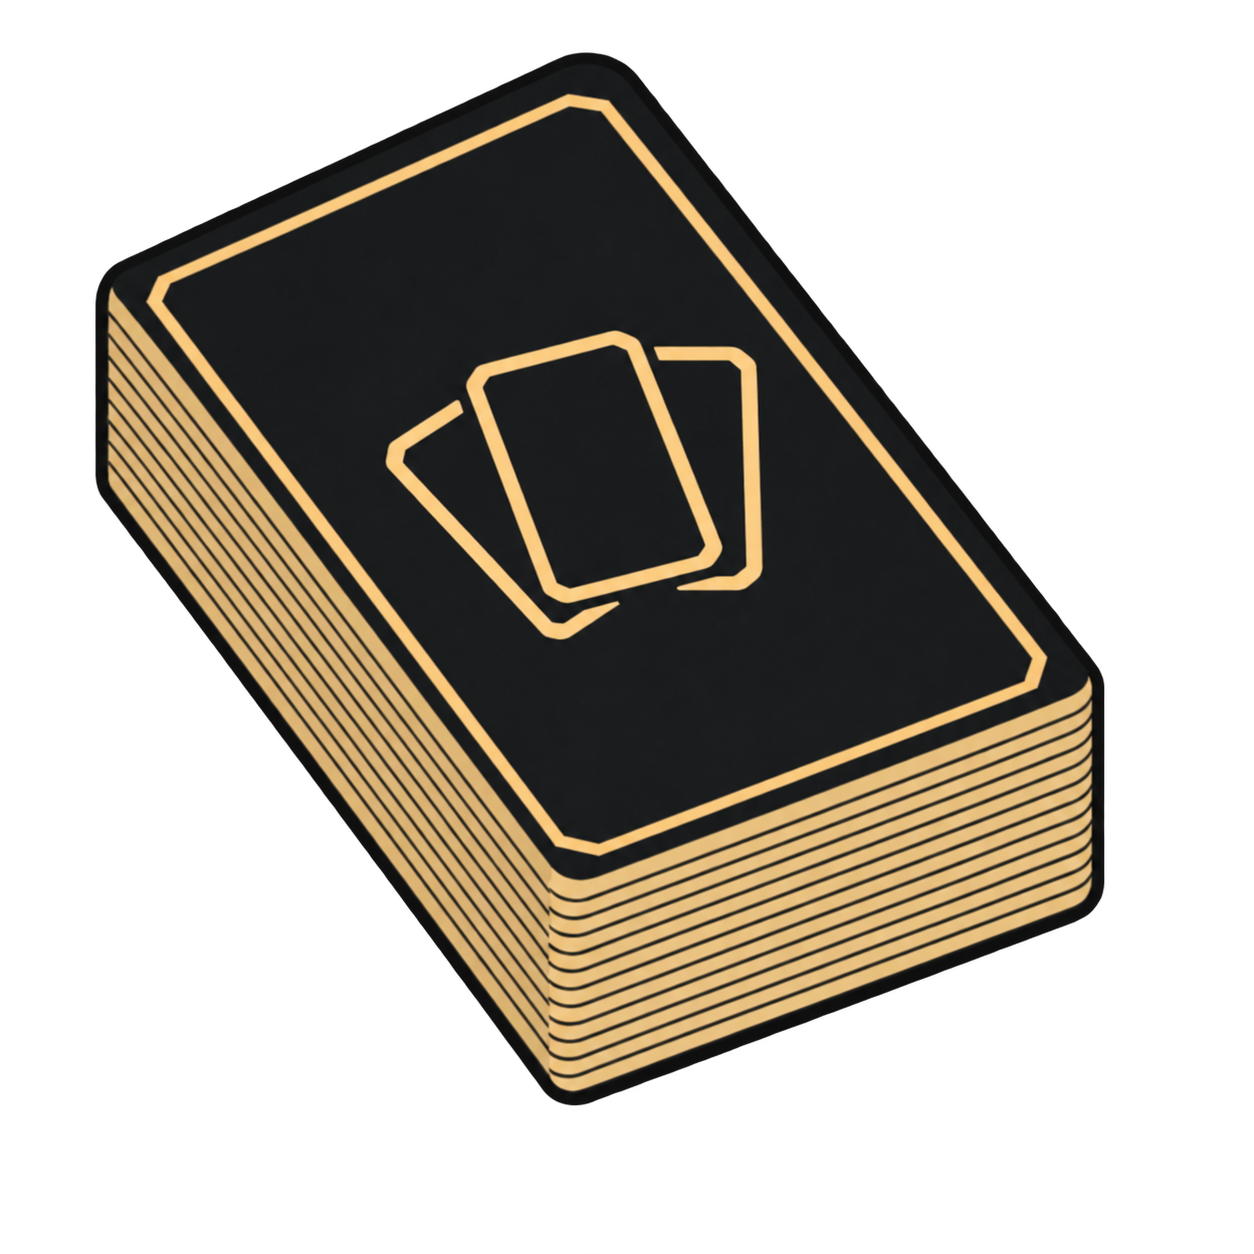
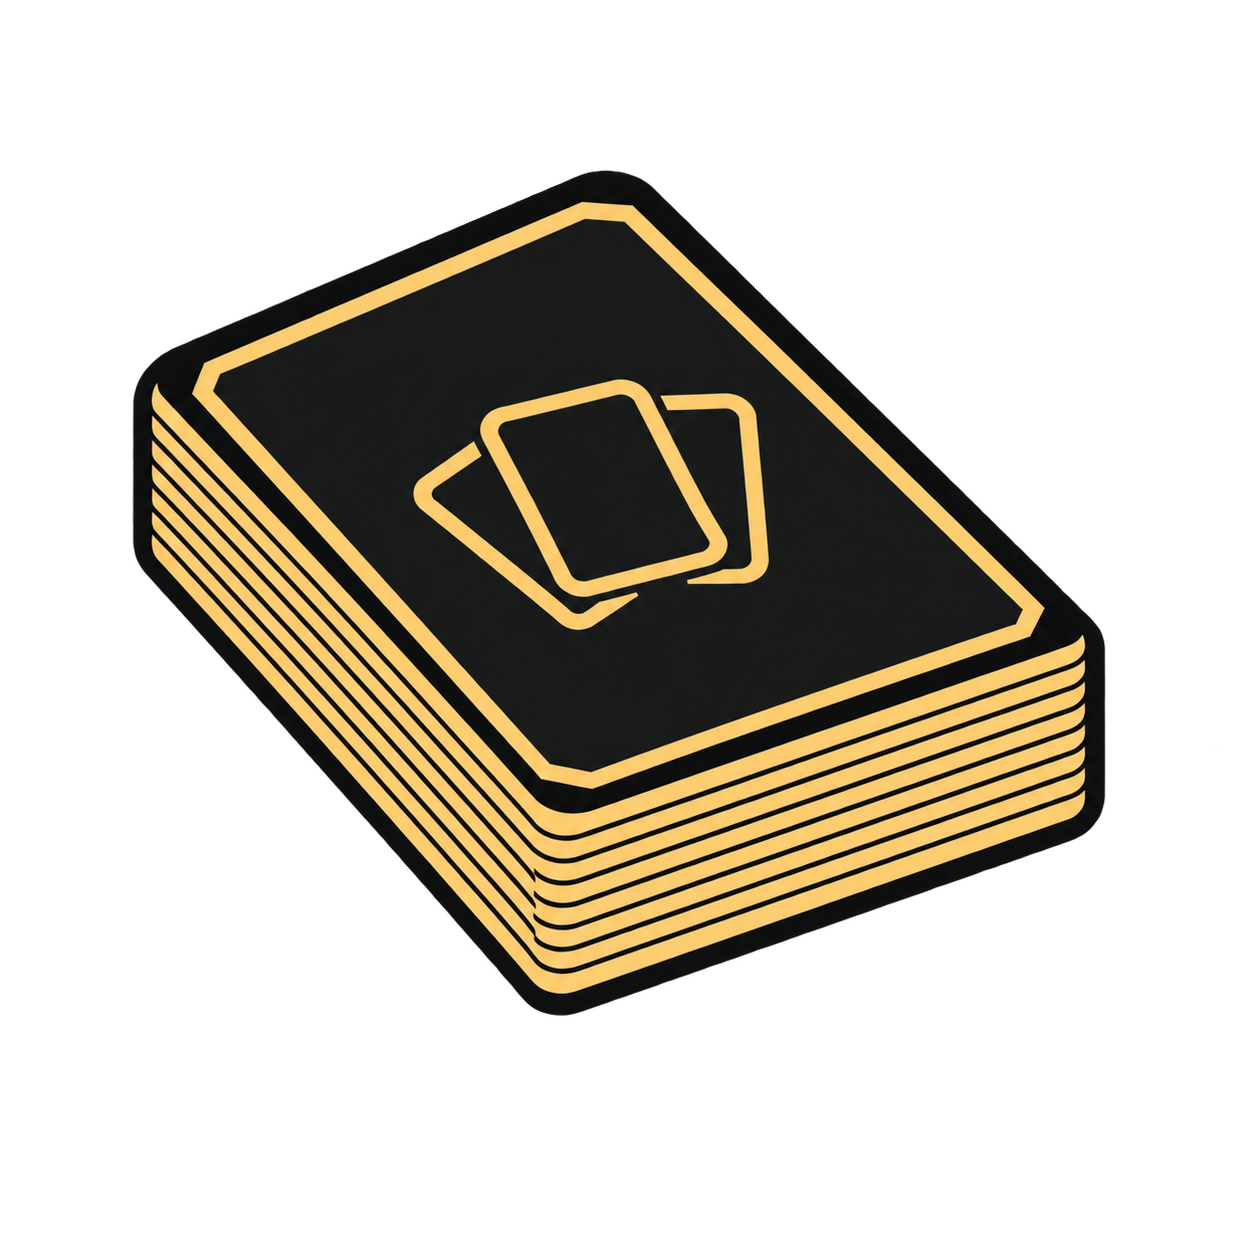
Le cadrage des tas se calcule au lieu de se régler
Keko a mis ces deux images à jour, et leurs marges ont encore changé : le sujet
est passé de quasi carré à nettement plus plat. Le facteur d'agrandissement
avait déjà été écrit à la main deux fois, et il a été faux les deux fois dès
l'image suivante — 30 % de vide pour Deck.png, 19 pour ses remplaçants, 22 en
largeur mais 33 en hauteur pour leur mise à jour.

Une compensation calée à la main sur un fichier est fausse dès que le fichier
change, et rien ne le signale puisque l'image s'affiche quand même.

`Tas3D` mesure donc le dessin dans son cadre — le module des créatures rend ce
qu'il a coûté une seconde fois — et en déduit l'agrandissement et les quatre
marges. Vérifié hors navigateur sur les deux fichiers : 124,8 % et 117,7 % de
largeur, pour un paquet qui occupe 97,0 % de sa colonne dans les deux cas.

Deux pièges évités, tous deux déjà payés ailleurs : les % d'une marge se
rapportent à la largeur du bloc conteneur et jamais à sa hauteur, donc la marge
verticale passe par le rapport de l'image ; et la toile de mesure garde ce
rapport, sinon le dessin serait écrasé et les marges fausses sur l'axe écrasé.

Claude-Session: https://claude.ai/code/session_01KZ9nCsdAx7LsxofMKnUAi4

Changed region(s): [[0.0622, 0.0311, 0.9019, 0.9019]]

diff --git a/src/render/Tas3D.tsx b/src/render/Tas3D.tsx
@@ -21,17 +21,30 @@
  * une forme qui penche ne se juge pas au milieu de l'écran mais contre le bord
  * auquel elle est collée.
  *
- * **L'IMAGE EST AGRANDIE POUR COMPENSER SES MARGES**, et le facteur se
- * remesure à chaque dessin : `Deck.png` laissait 30 % de vide, ces deux-ci n'en
- * laissent que 19 — garder l'agrandissement d'avant les aurait sortis 17 % trop
- * gros. *Une compensation est calée sur UN fichier, pas sur l'idée de fichier.*
+ * **LE CADRAGE SE CALCULE, IL NE SE RÈGLE PLUS.** Un PNG porte ses bords
+ * transparents là où le viewBox d'un SVG collait au dessin, donc le paquet
+ * paraît plus petit que sa place et il faut l'agrandir d'autant. Ce facteur a
+ * été écrit à la main deux fois, et **il a été faux les deux fois dès l'image
+ * suivante** : `Deck.png` laissait 30 % de vide, ses remplaçants 19, leur mise
+ * à jour 22 en largeur mais 33 en hauteur. *Une compensation calée à la main
+ * sur un fichier est fausse dès que le fichier change* — et rien ne le signale,
+ * puisque l'image s'affiche quand même.
+ *
+ * On mesure donc le dessin dans son cadre et on en déduit l'agrandissement et
+ * les quatre marges. Keko peut redessiner ces symboles comme il veut, y compris
+ * en changeant leurs proportions : ils occuperont toujours la même place.
  *
  * **Le chiffre est AU-DESSUS, et il est discret.** Il a été un gros nombre d'or
  * serti sur le dos dans le jeu 2D : il avait le poids d'une valeur de jeu alors
  * qu'on ne décide pas dessus. Keko : « plus discret, c'est pas une info
  * capitale ». Au-dessus et non sur le paquet, donc rien ne recouvre le dessin.
  */
+import { useState } from 'react'
 import { urlDuTas } from '../ui/art.ts'
+import { boiteDe, mesurerBoite } from './silhouette.ts'
+
+/** La part de la colonne que le paquet doit occuper, vide exclu. */
+const CIBLE = 0.97
 
 type Props = {
   nom: 'pioche' | 'defausse'
@@ -39,6 +52,12 @@ type Props = {
 }
 
 export function Tas3D({ nom, compte }: Props): React.JSX.Element {
+  const [, mesure] = useState(0)
+  const cle = `tas-${nom}`
+  const boite = boiteDe(cle)
+  const largeurDuSujet = Math.max(0.1, 1 - boite.gauche - boite.droite)
+  const facteur = CIBLE / largeurDuSujet
+
   return (
     <div className={`tas-3d ${nom}`}>
       <span className="tas-compte">{compte}</span>
@@ -47,7 +66,31 @@ export function Tas3D({ nom, compte }: Props): React.JSX.Element {
           Keko l'a demandé en les fournissant. Ce n'est plus « un seul dessin,
           deux poses » mais deux dessins dont un se retourne : le symbole
           appartient au tas, l'inclinaison appartient au coin. */}
-      <img className="tas-dessin" src={urlDuTas(nom)} alt="" aria-hidden="true" />
+      <img
+        className="tas-dessin"
+        src={urlDuTas(nom)}
+        alt=""
+        aria-hidden="true"
+        onLoad={(e) => {
+          // La mesure ne prévient qu'à la PREMIÈRE fois, `silhouette.ts` s'en
+          // porte garant : un signal qui repartirait à chaque rendu serait la
+          // boucle infinie déjà rencontrée sur les textures de cartes.
+          if (mesurerBoite(cle, e.currentTarget)) mesure((n) => n + 1)
+        }}
+        style={{
+          width: `${facteur * 100}%`,
+          // LES `%` D'UNE MARGE SE RAPPORTENT À LA LARGEUR du bloc conteneur,
+          // jamais à sa hauteur — le piège déjà payé sur la tête de mort. La
+          // largeur de l'image vaut `facteur × 100 %` de ce conteneur, donc une
+          // marge dans la même unité retranche bien une fraction de l'image ;
+          // en hauteur il faut passer par son rapport, qu'on ne suppose pas
+          // carré.
+          marginTop: `${(-boite.haut * facteur * 100) / boite.rapport}%`,
+          marginBottom: `${(-boite.bas * facteur * 100) / boite.rapport}%`,
+          marginLeft: `${-boite.gauche * facteur * 100}%`,
+          marginRight: `${-boite.droite * facteur * 100}%`,
+        }}
+      />
     </div>
   )
 }

diff --git a/src/render/silhouette.ts b/src/render/silhouette.ts
@@ -31,10 +31,12 @@ export type Boite = {
   bas: number
   gauche: number
   droite: number
+  /** Largeur / hauteur du CADRE. On ne suppose jamais qu'il est carré. */
+  rapport: number
 }
 
 /** Le repli : le sujet remplit son cadre. C'est le cas des silhouettes SVG. */
-export const CADRE_PLEIN: Boite = { haut: 0, bas: 0, gauche: 0, droite: 0 }
+export const CADRE_PLEIN: Boite = { haut: 0, bas: 0, gauche: 0, droite: 0, rapport: 1 }
 
 const BOITES = new Map<string, Boite>()
 
@@ -51,17 +53,26 @@ export function boiteDe(cle: string): Boite {
 export function mesurerBoite(cle: string, image: CanvasImageSource): boolean {
   if (BOITES.has(cle)) return false
 
-  const T = 96
+  // LA TOILE GARDE LE RAPPORT DE L'IMAGE : la rendre carrée écraserait le
+  // dessin, et les marges qu'on en tire seraient fausses sur l'axe écrasé.
+  const nat = image as { naturalWidth?: number; naturalHeight?: number; width?: number; height?: number }
+  const l = nat.naturalWidth ?? (typeof nat.width === 'number' ? nat.width : 0)
+  const h = nat.naturalHeight ?? (typeof nat.height === 'number' ? nat.height : 0)
+  const rapport = l > 0 && h > 0 ? l / h : 1
+
+  const COTE = 96
+  const T = COTE
+  const TH = Math.max(1, Math.round(COTE / rapport))
   const toile = document.createElement('canvas')
   toile.width = T
-  toile.height = T
+  toile.height = TH
   const ctx = toile.getContext('2d', { willReadFrequently: true })
   if (ctx === null) return false
-  ctx.drawImage(image, 0, 0, T, T)
+  ctx.drawImage(image, 0, 0, T, TH)
 
   let donnees: Uint8ClampedArray
   try {
-    donnees = ctx.getImageData(0, 0, T, T).data
+    donnees = ctx.getImageData(0, 0, T, TH).data
   } catch {
     // Une image d'une autre origine souille le canvas. Ça n'arrive pas ici —
     // tout vient de `public/` — mais une lecture qui jette ne doit pas
@@ -70,10 +81,10 @@ export function mesurerBoite(cle: string, image: CanvasImageSource): boolean {
   }
 
   let x0 = T
-  let y0 = T
+  let y0 = TH
   let x1 = -1
   let y1 = -1
-  for (let y = 0; y < T; y++) {
+  for (let y = 0; y < TH; y++) {
     for (let x = 0; x < T; x++) {
       // Le même seuil que la mesure hors ligne : sous 12, c'est la frange
       // d'antialiasing du dessin, pas le dessin.
@@ -90,10 +101,11 @@ export function mesurerBoite(cle: string, image: CanvasImageSource): boolean {
   if (x1 < 0) return false
 
   BOITES.set(cle, {
-    haut: y0 / T,
-    bas: (T - 1 - y1) / T,
+    haut: y0 / TH,
+    bas: (TH - 1 - y1) / TH,
     gauche: x0 / T,
     droite: (T - 1 - x1) / T,
+    rapport,
   })
   return true
 }

diff --git a/src/ui/styles.css b/src/ui/styles.css
@@ -3770,22 +3770,12 @@ body {
   transform: scaleX(-1);
 }
 
-/* L'IMAGE PORTE SES MARGES, LE SVG N'EN AVAIT PAS. Le viewBox collait au
-   dessin ; un PNG porte ses bords transparents, donc le paquet paraitrait plus
-   petit a place egale. On l'agrandit d'autant et on laisse deborder -- la
-   colonne ne sert qu'a l'aligner.
-
-   ET LE FACTEUR SE RECALCULE A CHAQUE DESSIN. `Deck.png` laissait 30 % de vide,
-   `Pioche.png` et `Défausse.png` n'en laissent que 19 : garder l'agrandissement
-   d'avant les aurait sortis 17 % trop gros. *Une compensation est calee sur UN
-   fichier, pas sur l'idee de fichier* -- elle se remesure quand il change.
-
-   Le vide n'est pas centre non plus (4 % en haut, 12 % en bas), d'ou des marges
-   verticales inegales. */
+/* LA TAILLE ET LES MARGES SONT CALCULEES PAR `Tas3D`, depuis le dessin lui-meme
+   : un PNG porte ses bords transparents, et leur part change a chaque fois que
+   Keko redessine le symbole. Un facteur ecrit ici serait faux des l'image
+   suivante, sans que rien ne le signale. */
 .tas-dessin {
   display: block;
-  width: 121%;
-  margin: -5% -10.5% -14%;
   filter: drop-shadow(0 2px 4px #000000a8);
 }
 

diff --git a/CLAUDE.md b/CLAUDE.md
@@ -3210,9 +3210,26 @@ en 3/4, qui remplace le losange projeté à la main. Ce qu'il a coûté reste da
 être autre chose qu'un carré*, le rapport d'une carte se projette et ne se
 devine pas à l'oeil.
 
-**L'image est agrandie pour compenser ses marges** : le viewBox du SVG collait au
-dessin, un PNG porte ses bords transparents (14 à 17 % de chaque côté). Sans
-ça, le paquet paraîtrait un tiers plus petit à place égale dans le coin.
+**LE CADRAGE SE CALCULE, IL NE SE RÈGLE PLUS.** Un PNG porte ses bords
+transparents là où le viewBox d'un SVG collait au dessin : le paquet paraît plus
+petit que sa place, il faut l'agrandir d'autant. Ce facteur a été écrit à la
+main deux fois, et **il a été faux les deux fois dès l'image suivante** —
+`Deck.png` laissait 30 % de vide, ses remplaçants 19, leur mise à jour 22 en
+largeur mais 33 en hauteur. *Une compensation calée à la main sur un fichier est
+fausse dès que le fichier change*, et rien ne le signale puisque l'image
+s'affiche quand même.
+
+`Tas3D` mesure donc le dessin dans son cadre (`silhouette.ts`, le module des
+créatures) et en déduit l'agrandissement et les quatre marges. Vérifié hors
+navigateur sur les deux fichiers : 124,8 % et 117,7 % de largeur, pour un paquet
+qui occupe **97,0 % de sa colonne dans les deux cas**. Keko peut redessiner ces
+symboles comme il veut, proportions comprises.
+
+**Deux pièges évités là-dedans**, et tous deux déjà payés ailleurs : les `%`
+d'une MARGE se rapportent à la largeur du bloc conteneur et jamais à sa hauteur
+(la tête de mort), donc la marge verticale passe par le rapport de l'image ; et
+la toile de mesure garde ce rapport, sinon le dessin serait écrasé et les marges
+fausses sur l'axe écrasé.
 
 **ET LA PIOCHE EST LE MIROIR DE LA DÉFAUSSE.** Le paquet penche : son coin bas
 est centré, mais son grand axe monte vers la droite — un rectangle ne peut pas
